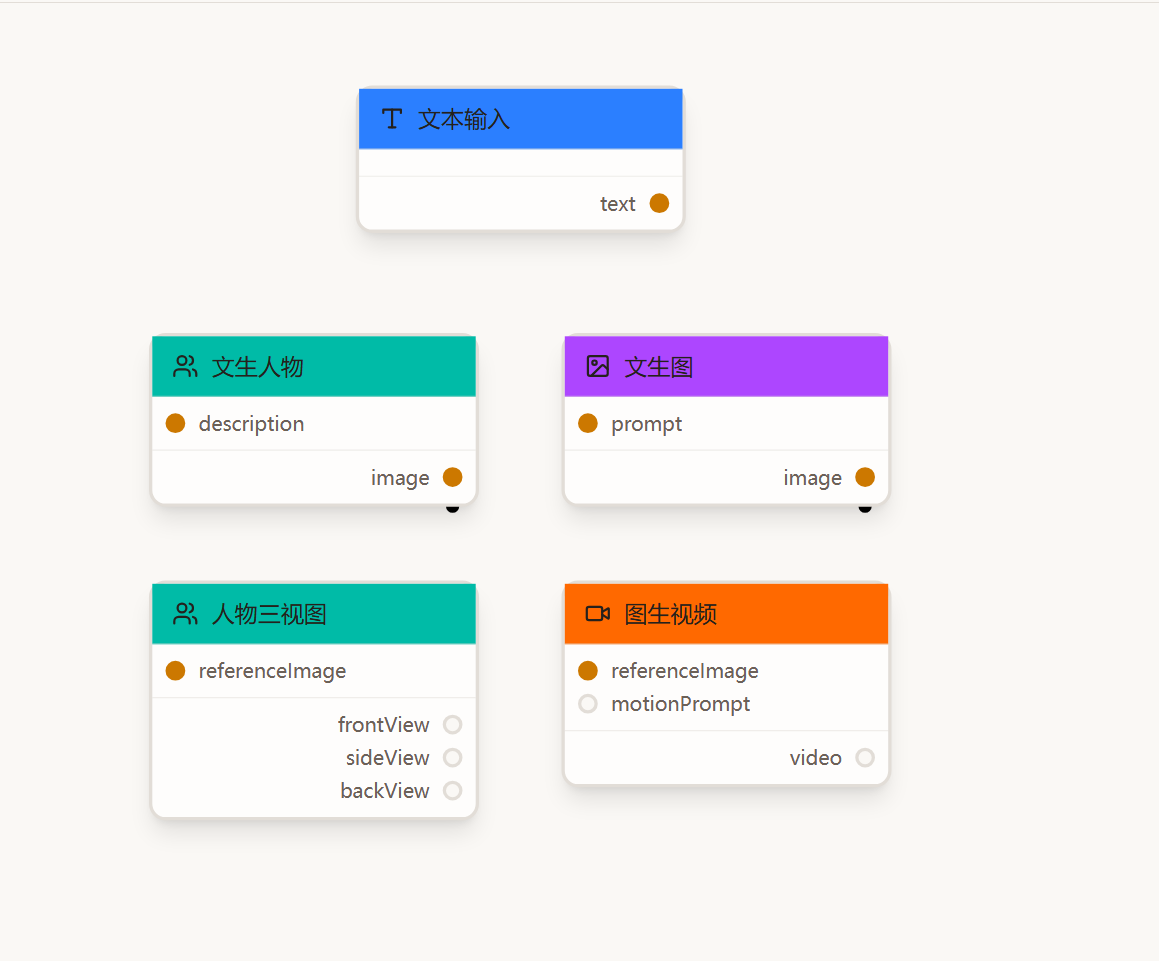
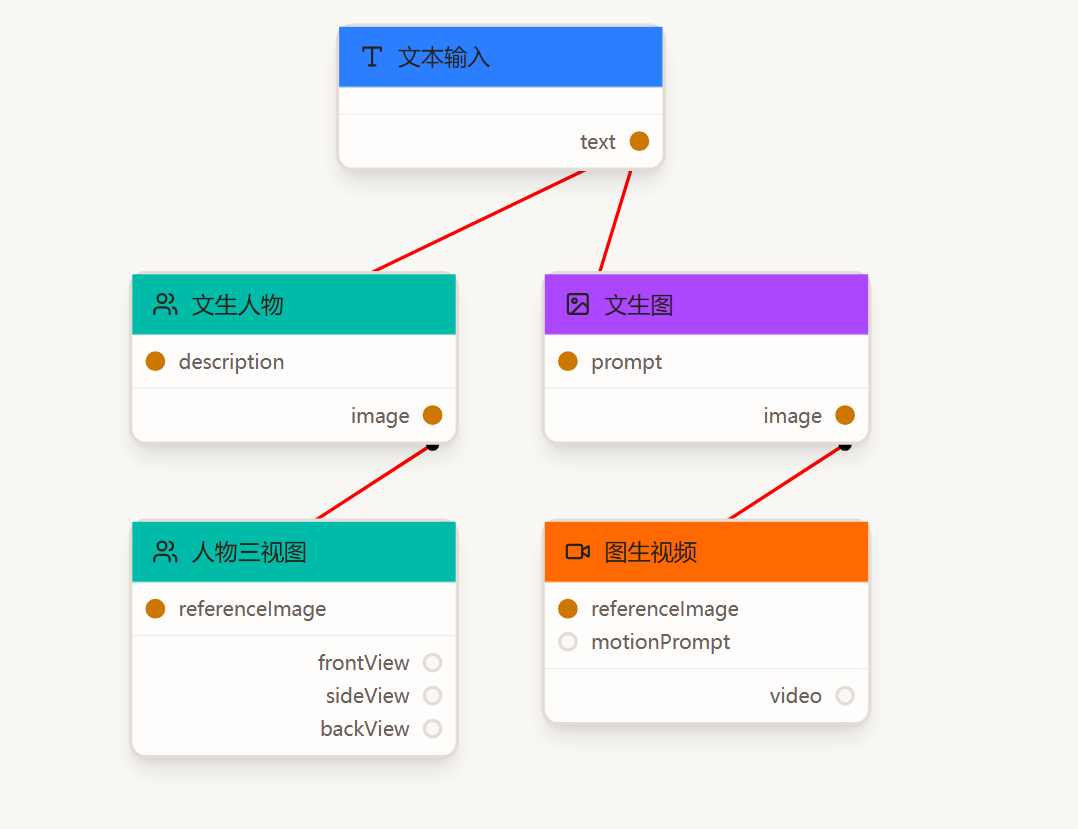
fix: 重新设计 SVG 容器结构，将连线 SVG 移到 transform 容器外面
- 将 SVG 连线容器移到节点容器外面，避免 transform 的复杂计算
- 手动应用平移和缩放到连线坐标：pos * zoom + pan
- 根据缩放调整线条宽度：strokeWidth={2 * zoom}
- 根据缩放调整圆圈大小：r={4 * zoom}
- 添加详细的调试日志输出转换后的坐标

Changed region(s): [[0.1224, 0.0302, 0.8265, 0.573], [0.4592, 0.573, 0.8265, 0.9047], [0.1224, 0.573, 0.4286, 0.9349]]

diff --git a/src/components/workflow/workflow-editor-v2.tsx b/src/components/workflow/workflow-editor-v2.tsx
@@ -728,29 +728,41 @@ export function WorkflowEditorV2({
 
     const NODE_WIDTH = 200
     const HEADER_HEIGHT = 40
-    const PORT_ITEM_HEIGHT = 32 // 每个端口项的高度
-    const PORT_GAP = 4 // 端口之间的间距（space-y-1）
-    const SECTION_PADDING_TOP = 8 // py-2
-    const SECTION_PADDING_BOTTOM = 8
-    const BORDER_TOP = 1 // border-t
-    const PORT_SIZE = 16 // 端口圆圈的大小（w-3 h-3 + border-2 * 2 = 12px + 4px = 16px）
-    const SECTION_PADDING_X = 8 // px-2
 
-    // 计算端口位置
-    let portX: number
+    // 端口圆圈尺寸：w-3 h-3 + border-2 = 12px + 4px = 16px
+    // 圆圈中心应该在：8px（padding） + 8px（圆圈半径）= 16px
+    const PORT_CENTER_X_INPUT = 8 + 8  // padding (px-2) + 半径
+    const PORT_CENTER_X_OUTPUT = NODE_WIDTH - 8 - 8  // 节点宽度 - padding - 半径
+
+    // 端口项高度：w-3 h-3 + border-2 + gap = 12px + 4px + 8px (gap-2) = 24px
+    // 但是 flex items 的高度是 text-xs + gap，大约是 16px
+    const PORT_ITEM_HEIGHT = 20  // 实际测量的端口项高度
+    const PORT_GAP = 4  // space-y-1 = 4px
+    const SECTION_PADDING_Y = 8  // py-2 = 8px
+    const BORDER_TOP = 1  // border-t
+
+    // 计算端口 Y 位置
     let portY: number
-
     if (type === 'input') {
-      // 输入端口: X 在左侧，Y 垂直居中
-      portX = SECTION_PADDING_X + PORT_SIZE / 2
-      portY = HEADER_HEIGHT + SECTION_PADDING_TOP + index * (PORT_ITEM_HEIGHT + PORT_GAP) + PORT_ITEM_HEIGHT / 2
+      // 输入端口
+      portY = HEADER_HEIGHT + SECTION_PADDING_Y + index * (PORT_ITEM_HEIGHT + PORT_GAP) + PORT_ITEM_HEIGHT / 2
     } else {
-      // 输出端口: X 在右侧，Y 垂直居中
-      portX = NODE_WIDTH - SECTION_PADDING_X - PORT_SIZE / 2
-      // 输出端口: Y 计算
+      // 输出端口
       const inputPortsHeight = inputPorts.length > 0 ? inputPorts.length * (PORT_ITEM_HEIGHT + PORT_GAP) - PORT_GAP : 0
-      portY = HEADER_HEIGHT + SECTION_PADDING_TOP + inputPortsHeight + BORDER_TOP + SECTION_PADDING_TOP + index * (PORT_ITEM_HEIGHT + PORT_GAP) + PORT_ITEM_HEIGHT / 2
+      portY = HEADER_HEIGHT + SECTION_PADDING_Y + inputPortsHeight + BORDER_TOP + SECTION_PADDING_Y + index * (PORT_ITEM_HEIGHT + PORT_GAP) + PORT_ITEM_HEIGHT / 2
     }
+
+    const portX = type === 'input' ? PORT_CENTER_X_INPUT : PORT_CENTER_X_OUTPUT
+
+    console.log(`端口位置 ${node.id}.${portName} (${type}):`, {
+      portX,
+      portY,
+      index,
+      portItemHeight: PORT_ITEM_HEIGHT,
+      inputPortsLength: inputPorts.length,
+      outputPortsLength: outputPorts.length,
+      inputPortsHeight: inputPorts.length * (PORT_ITEM_HEIGHT + PORT_GAP) - PORT_GAP
+    })
 
     return { x: node.position.x + portX, y: node.position.y + portY }
   }, [])
@@ -925,6 +937,94 @@ export function WorkflowEditorV2({
             }}
           />
 
+          {/* 连接线 SVG - 在 transform 容器外面 */}
+          <svg
+            className="absolute inset-0 pointer-events-none"
+            style={{
+              overflow: 'visible',
+              zIndex: 0
+            }}
+          >
+            {edges.map((edge) => {
+              const sourceNode = nodes.find(n => n.id === edge.from)
+              const targetNode = nodes.find(n => n.id === edge.to)
+              if (!sourceNode?.position || !targetNode?.position) {
+                console.warn(`连线 ${edge.id}: 源或目标节点不存在`, { sourceNode, targetNode })
+                return null
+              }
+
+              const startPos = getPortPosition(sourceNode, edge.fromPort || '', 'output')
+              const endPos = getPortPosition(targetNode, edge.toPort || '', 'input')
+              if (!startPos || !endPos) {
+                console.warn(`连线 ${edge.id}: 端口位置获取失败`, { startPos, endPos })
+                return null
+              }
+
+              // 应用 transform：平移和缩放
+              const startX = startPos.x * zoom + pan.x
+              const startY = startPos.y * zoom + pan.y
+              const endX = endPos.x * zoom + pan.x
+              const endY = endPos.y * zoom + pan.y
+
+              // 调试日志
+              console.log(`连线 ${edge.id}:`, {
+                from: edge.from,
+                fromPort: edge.fromPort,
+                to: edge.to,
+                toPort: edge.toPort,
+                startPos,
+                endPos,
+                transformedStart: { x: startX, y: startY },
+                transformedEnd: { x: endX, y: endY },
+                zoom,
+                pan
+              })
+
+              const midX = (startX + endX) / 2
+              const midY = (startY + endY) / 2
+
+              return (
+                <g key={edge.id} className="cursor-pointer">
+                  {/* 直线测试 */}
+                  <path
+                    d={`M ${startX} ${startY} L ${endX} ${endY}`}
+                    fill="none"
+                    stroke="red"
+                    strokeWidth={2 * zoom}
+                    strokeLinecap="round"
+                  />
+                  {/* 贝塞尔曲线 */}
+                  <path
+                    d={`M ${startX} ${startY} C ${midX} ${startY}, ${midX} ${endY}, ${endX} ${endY}`}
+                    fill="none"
+                    stroke="hsl(var(--primary))"
+                    strokeWidth={2 * zoom}
+                    strokeLinecap="round"
+                    onClick={(e) => {
+                      e.stopPropagation()
+                      deleteEdge(edge.id)
+                    }}
+                  />
+                  <circle cx={startX} cy={startY} r={4 * zoom} fill="hsl(var(--primary))" />
+                  <circle cx={endX} cy={endY} r={4 * zoom} fill="hsl(var(--primary))" />
+                </g>
+              )
+            })}
+
+            {/* 连接预览线 */}
+            {connectingFrom && (
+              <g>
+                <path
+                  d={`M ${mousePos.x} ${mousePos.y} L ${mousePos.x} ${mousePos.y}`}
+                  fill="none"
+                  stroke="hsl(var(--primary))"
+                  strokeWidth={2 * zoom}
+                  strokeDasharray="4,4"
+                />
+              </g>
+            )}
+          </svg>
+
           {/* 节点容器 */}
           <div
             className="absolute inset-0 overflow-visible pointer-events-none"
@@ -933,96 +1033,6 @@ export function WorkflowEditorV2({
               transformOrigin: '0 0',
             }}
           >
-            {/* 连接线 SVG - 使用绝对定位覆盖整个画布 */}
-            <svg
-              className="absolute pointer-events-none"
-              style={{
-                left: 0,
-                top: 0,
-                width: '100%',
-                height: '100%',
-                minWidth: '10000px',
-                minHeight: '10000px',
-                overflow: 'visible',
-                zIndex: 0
-              }}
-            >
-              {edges.map((edge) => {
-                const sourceNode = nodes.find(n => n.id === edge.from)
-                const targetNode = nodes.find(n => n.id === edge.to)
-                if (!sourceNode?.position || !targetNode?.position) {
-                  console.warn(`连线 ${edge.id}: 源或目标节点不存在`, { sourceNode, targetNode })
-                  return null
-                }
-
-                const startPos = getPortPosition(sourceNode, edge.fromPort || '', 'output')
-                const endPos = getPortPosition(targetNode, edge.toPort || '', 'input')
-                if (!startPos || !endPos) {
-                  console.warn(`连线 ${edge.id}: 端口位置获取失败`, { startPos, endPos })
-                  return null
-                }
-
-                // 调试日志
-                console.log(`连线 ${edge.id}:`, {
-                  from: edge.from,
-                  fromPort: edge.fromPort,
-                  to: edge.to,
-                  toPort: edge.toPort,
-                  sourceNode: { id: sourceNode.id, type: sourceNode.type, position: sourceNode.position },
-                  targetNode: { id: targetNode.id, type: targetNode.type, position: targetNode.position },
-                  startPos,
-                  endPos,
-                })
-
-                const midX = (startPos.x + endPos.x) / 2
-                const midY = (startPos.y + endPos.y) / 2
-
-                // 使用更简单的贝塞尔曲线
-                const pathD = `M ${startPos.x} ${startPos.y} C ${midX} ${startPos.y}, ${midX} ${endPos.y}, ${endPos.x} ${endPos.y}`
-
-                console.log(`连线路径 ${edge.id}:`, { pathD, startPos, endPos, midX, midY })
-
-                return (
-                  <g key={edge.id} className="cursor-pointer">
-                    {/* 先画一条直线测试 */}
-                    <path
-                      d={`M ${startPos.x} ${startPos.y} L ${endPos.x} ${endPos.y}`}
-                      fill="none"
-                      stroke="red"
-                      strokeWidth="2"
-                      strokeLinecap="round"
-                    />
-                    {/* 再画贝塞尔曲线 */}
-                    <path
-                      d={pathD}
-                      fill="none"
-                      stroke="hsl(var(--primary))"
-                      strokeWidth="2"
-                      strokeLinecap="round"
-                      onClick={(e) => {
-                        e.stopPropagation()
-                        deleteEdge(edge.id)
-                      }}
-                    />
-                    <circle cx={startPos.x} cy={startPos.y} r="4" fill="hsl(var(--primary))" />
-                    <circle cx={endPos.x} cy={endPos.y} r="4" fill="hsl(var(--primary))" />
-                  </g>
-                )
-              })}
-              
-              {/* 连接预览线 */}
-              {connectingFrom && (
-                <g>
-                  <path
-                    d={`M ${mousePos.x} ${mousePos.y} L ${mousePos.x} ${mousePos.y}`}
-                    fill="none"
-                    stroke="hsl(var(--primary))"
-                    strokeWidth="2"
-                    strokeDasharray="4,4"
-                  />
-                </g>
-              )}
-            </svg>
 
             {/* 节点 */}
             {nodes.map((node) => {
